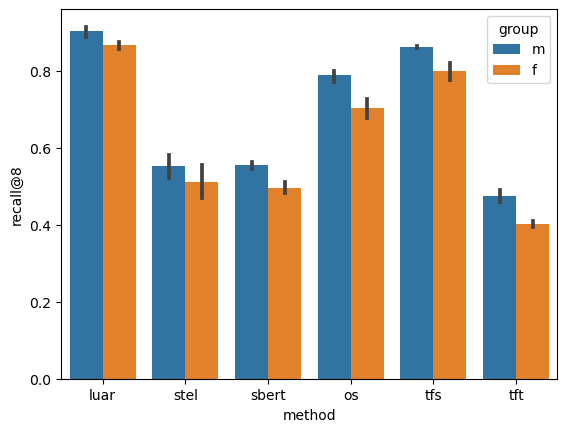
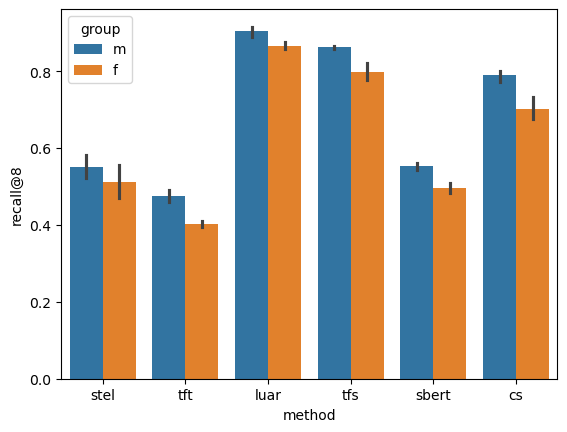
Completed first pass on stylometry extensions

diff --git a/stylometryExtensions/robustRepresentations.tex b/stylometryExtensions/robustRepresentations.tex
@@ -42,7 +42,7 @@ Specifically, we selected query/target temporal pairs with a fixed time differen
 Suppose the queries span time period $(Q_{\rm{start}}, Q_{\rm{end}}) = (q_1, q_2)$ and the targets span $(T_{\rm{start}}, T_{\rm{end}}) = (t_1, t_2)$.
 We ensured that $\Delta_\tau = q_2 - t_2$ was similar across all datasets. 
 However, we varied $q_1$ to obtain multiple, non-overlapping datasets.
-We chose queries from January 2015 to January 2019 (5 query sets, each one month long) and targets from December 2015 to December 2018 and October 2019 with$p_{\rm{min}} = 16, p_{\rm{max}} = 2000$ with a set of 50k users sampled for each query-target pair.
+We chose queries from January 2015 to January 2019 (5 query sets, each one month long) and targets from December 2015 to December 2018 and October 2019 with $p_{\rm{min}} = 16, p_{\rm{max}} = 2000$ with a set of 50k users sampled for each query-target pair.
 In the following texts, we refer to these datasets as \DSfixeddelta{}.
 A degradation in performance of author identification models over \DSfixeddelta{} would suggest that model estimation is not stable to temporal data shifts, and that the model would need to be retrained to maintain performance over time.
 For the second dataset, we selected a single, fixed query split and multiple target splits. 
@@ -105,7 +105,7 @@ Note that the age in the data was adjusted to reflect the age of the user in Jan
 In addition to constructing query/target pairs with a fixed $T_{start} - Q_{start} = 1~\rm{month}$, we can additionally consider all possible pairs of query/target from the splits collected for creating the DemographicReddit datasets.
 These pairs correspond to $\Perm{5}{2} = 20$ query/target pairs.
 The two corresponding demographic datasets are labeled \DSagevary{} and \DSgendervary{} for age and gender, respectively.
-\pmcomment{TODO}
+%\pmcomment{TODO}
 
 \subsection{Experiments}\
 
@@ -170,7 +170,7 @@ We train logistic regression classifiers on the LUAR, SBERT, and STEL representa
 %\end{tabular}
 \begin{tabular}{lrrrrrr}
     \toprule
-method & OS & TFS & TFT & SBERT & STEL & LUAR \\
+method & CS & TFS & TFT & SBERT & STEL & LUAR \\
 Q/T &  &  &  &  &  &  \\
 \midrule
 15-1/15-12 & 0.237 & 0.260 & 0.192 & 0.232 & 0.135 & 0.779 \\
@@ -194,11 +194,11 @@ Thus, for a consistent query-target time difference, LUAR is able to maintain a 
 %\pmComment{Need better presentation option for this}
 
 % TODO: At least make this a faceted plot 
-\begin{figure}[h]
+\begin{figure}[ht]
     \centering
     \begin{subfigure}{0.48\linewidth}
     \includegraphics[width=\linewidth]{stylometryExtensions/figures/heat/os.png}
-    \caption{OS}
+    \caption{CS}
     \label{fig:tempral_vary:os}
     \end{subfigure}
     \begin{subfigure}{0.48\linewidth}
@@ -234,46 +234,78 @@ Thus, for a consistent query-target time difference, LUAR is able to maintain a 
     \label{fig:temporal_vary}
 \end{figure}
 
+\begin{figure}
+    \centering
+    \includegraphics[width=0.6\textwidth]{stylometryExtensions/figures/luar_degradation.png}
+    \caption{Target results for the earliest query split (15-1). We compare normalized recall@8 across all methods for \DSvarydelta{}.}
+    \label{fig:temporal_vary:line}
+\end{figure}
 Next, using \DSvarydelta{} we consider temporal variation across a fixed set of users across time.
+Figure~\ref{fig:temporal_vary} shows heatmaps for the recall@8 results for each model across different query/target time periods for a fixed set of authors.
+We see that across all the methods, there is a temporal degradation in performance, which could potentially be caused by temporally evolving styles (STEL), topics of interest (Count/TFIDF) based results or semantics (SBERT).
+However, from Figure~\ref{fig:temporal_vary:line}, we see that when normalized for diagnal, degradation in performance is the least for LUAR.
+This indicates that the author representation features captured by LUAR are more stable across time compared to the other models.
 
-\subsubsection{Demographics}
-Figure~\ref{fig:demographic_fixed:age} shows the recall@8 results for age... 
-We note that all models consistently underperform on (self-identified) teenage users.
-
+\subsubsection{DemographicReddit}
 \begin{figure}[h]
     \centering
-    \includegraphics[width=0.48\linewidth]{stylometryExtensions/figures/demo/fixeddelta_demographics_age.png}
-    \includegraphics[width=0.48\linewidth]{stylometryExtensions/figures/demo/fixeddelta_demographics_age_groupwise.png}
-    \caption{Overall results on \DSagefixed{} (top), and split by age group (bottom). }
+    %\includegraphics[width=0.48\linewidth]{stylometryExtensions/figures/demo/fixeddelta_demographics_age.png}
+    \includegraphics[width=0.6\textwidth]{stylometryExtensions/figures/demo/fixeddelta_demographics_age_groupwise.png}
+    \caption{Overall results on \DSagefixed{} split by age group. }
     \label{fig:demographic_fixed:age}
 \end{figure}
-
 \begin{figure}[h]
     \centering
-    \includegraphics[width=0.48\linewidth]{stylometryExtensions/figures/demo/fixeddelta_demographics_gender.png}
-    \includegraphics[width=0.48\linewidth]{stylometryExtensions/figures/demo/fixeddelta_demographics_gender_groupwise.png}
-    \caption{Overall results on \DSgenderfixed{} (top), and split by each group (bottom). We note that all models consistenly underperform on (self-identified) female users.}
+    %\includegraphics[width=0.48\linewidth]{stylometryExtensions/figures/demo/fixeddelta_demographics_gender.png}
+    \includegraphics[width=0.6\textwidth]{stylometryExtensions/figures/demo/fixeddelta_demographics_gender_groupwise.png}
+    \caption{Overall results on \DSgenderfixed{} split by each group (bottom).}
     \label{fig:demographic_fixed:gender}
 \end{figure}
+First, we consider the results for the demographic splits controlled for temporal variation.
+Figure~\ref{fig:demographic_fixed:age} shows the recall@8 results for age groups across different models on \DSagefixed{}.
+We note that all models consistently underperform on (self-identified) teenage users.
+Further, from Figure~\ref{fig:demographic_fixed:gender}, we note that all models consistently underperform on (self-identified) female users.
 
-\pmComment{separate these plots}
 \begin{figure}[h]
     \centering
-    \includegraphics[height=0.8\textheight]{stylometryExtensions/figures/demo/varydelta_demographic_groupwise_age.png}
-    \caption{Overall results on \DSagevary{}. We note that across all $|T_{\rm{start}} - Q_{\rm{start}}|$ and all models, teenage users are consistenly the least identifiable.}
+    \includegraphics[width=0.6\textwidth]{stylometryExtensions/figures/demo/varydelta_demographic_groupwise_age.png}
+    \caption{Overall results on \DSagevary{}. The x-axis denotes the absolute difference in the query and target start time, i.e., $|T_{\rm{start}} - Q_{\rm{start}}|$ .}
     \label{fig:demographic_vary:age}
 \end{figure}
 
 \begin{figure}[h]
     \centering
-    \includegraphics[height=0.8\textheight]{stylometryExtensions/figures/demo/varydelta_demographic_groupwise_gender.png}
-    \caption{Overall results on \DSgendervary{}. We note that across all $|T_{\rm{start}} - Q_{\rm{start}}|$ and all models, female users are consistenly the least identifiable.}
+    \includegraphics[height=0.6\textwidth]{stylometryExtensions/figures/demo/varydelta_demographic_groupwise_gender.png}
+    \caption{Overall results on \DSgendervary{}. The x-axis denotes the absolute difference in the query and target start time, i.e., $|T_{\rm{start}} - Q_{\rm{start}}|$. }
     \label{fig:demographic_vary:gender}
 \end{figure}
 
-\subsubsection{Robustness}
+Next, we consider \DSagevary{} and \DSgendervary{}.
+We focus on LUAR, as it is the best performing model across all the datasets.
+The results from Figure~\ref{fig:demographic_vary:age} that across all $|T_{\rm{start}} - Q_{\rm{start}}|$, (self-identified) teenage authors are consistently the least identifiable.
+Further, from Figure~\ref{fig:demographic_vary:gender}, We note that across all $|T_{\rm{start}} - Q_{\rm{start}}|$ and all models, authors self identifying as female are consistently the least identifiable.
 
-\pmComment{Uncomment below for probing results}
+
+\subsubsection{Analysis}
+From the results with TemporalReddit, we can conclude that model estimation is unlikely to be a cause for the degradation in performance over time.
+However, changing author interests and writing styles do contribute to the degradation in performance.
+Drilling down into the specifics, we find that the degradation in performance is more significant for certain groups, notably younger authors and female authors.
+Our results support our hypothesis that author representations encode systematic biases with respect to demographics. 
+These biases get further exacerbated across time.
+Care must be taken when deploying authorship attribution models in forensic applications, as the models may suffer from higher error rates and potential negative outcomes, such as false attributions, for certain the aforementioned groups.
+
+
+\subsection{Limitations}
+\citet{tigunova2020reddust} carefully extracted self-identified demographic traits while excluding posts made by users on subreddits involving gamin/roleplaying as authors tend to adopt different personas in such subreddits.
+However, our analysis presupposes the correctness of their demographic extraction process.
+The demographic traits are self-identified, and there is no way to verify the accuracy of these traits.
+This limitation must be noted when interpreting the results from the TemporalReddit and DemographicReddit datasets.
+
+
+
+%\subsubsection{Robustness}
+
+%\pmComment{Uncomment below for probing results}
 \begin{comment}
 \subsubsection{Probing Classifier}
 Two possible stories to explain the probing classifier results:

diff --git a/premable.tex b/premable.tex
@@ -8,7 +8,9 @@
 \usepackage{microtype} % enables certain features 'towards typographical perfection'
 \usepackage[T1]{fontenc} % ensures the use of font encodings that support accented characters
 
+% accessibility - language
 %\usepackage[english]{babel}
+%\usepackage{hyperxmp}
 
 % \setlength{\parindent}{2 em}
 %\setlength{\parskip}{.6 em}
@@ -43,6 +45,10 @@
 
 \usepackage{color}   %May be necessary if you want to color links
 \usepackage{hyperref}
+%accessibility options added to hyperref
+%%\hypersetup{
+%  pdftitle={The Role of Structure in Building Adaptive Machine Learning},
+%}
 \usepackage{titlesec}
 \usepackage[scaled=0.01]{helvet}
 %\usepackage{arydshln}

diff --git a/Thesis.tex b/Thesis.tex
@@ -1,3 +1,5 @@
+%\RequirePackage{pdfmanagement-testphase}
+%\DeclareDocumentMetadata{uncompress,pdfversion=2.0}
 %\DocumentMetadata{testphase=phase-III,testphase=math}
 \documentclass[osudraft]{osudissert96}
 
